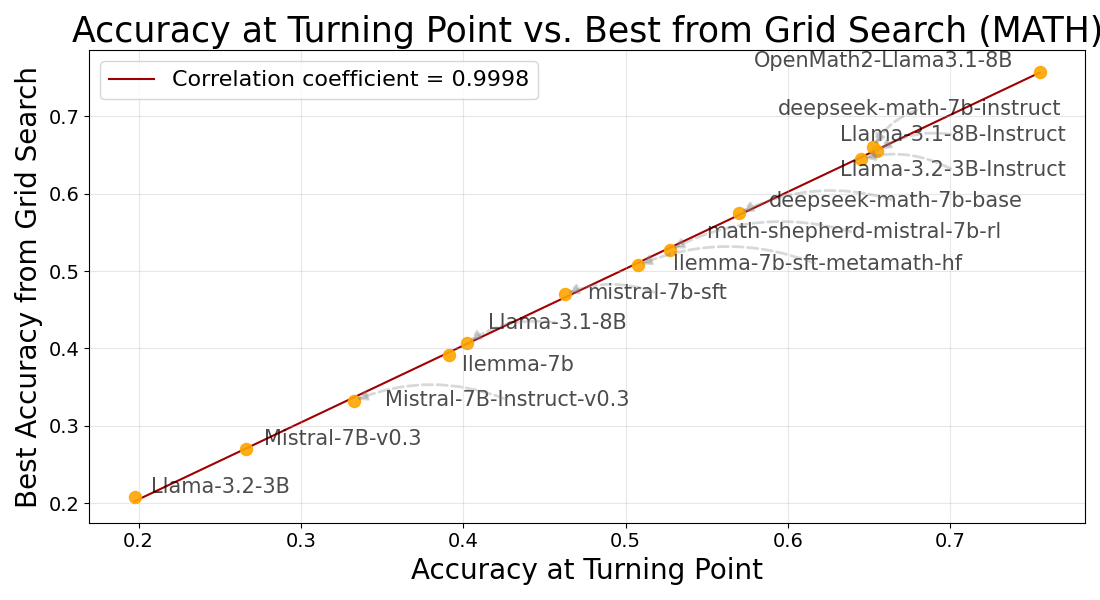
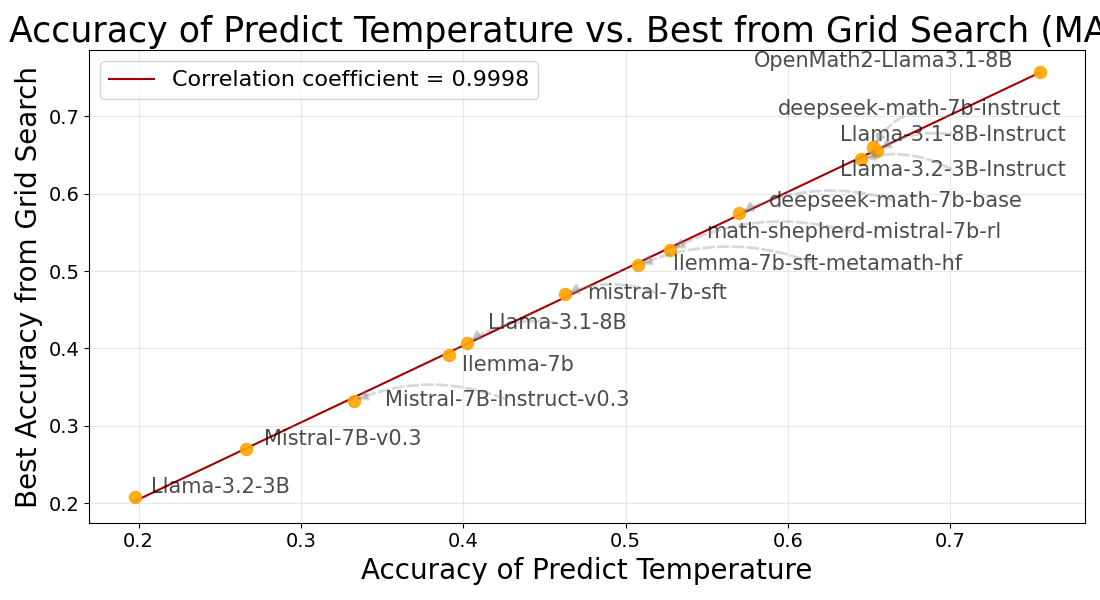
111

Changed region(s): [[0.0, 0.03, 1.0, 0.09], [0.3091, 0.93, 0.7418, 0.99]]

diff --git a/predict.py b/predict.py
@@ -293,6 +293,13 @@ if __name__ == "__main__":
             )
         entropy.append(average_e)
         temp.append(f"{t:.2f}")
+        # save intermediate results
+        output = {
+            "entropy": dict(zip(temp, entropy)),
+        }
+        with open(args.output_path, "w") as f:
+            json.dump(output, f)
+
     print("Entropy: ", entropy)
     print("Temperature: ", temp)
     entropy_dict = dict(zip(temp, entropy))

diff --git a/readme.md b/readme.md
@@ -8,6 +8,8 @@ This repository contains the code for the following paper:
 
 > The repo contains an entropy-based algorithm, <em>TURN</em>, for automated temperature optimization in multi-sample aggregation strategies, eliminating the need for labeled validation data.
 >
+> Multi-sample aggregation strategies (i.e., Best-of-N, Majority Voting) are widely used to achieve state-of-the-art performances, and we are the first to provide a systematic analysis for temperature selection in these strategies.
+>
 > Our predicted temperature has very high correlation to the best temperature from grid search regarding to accuracy (Fig. [1](#image1)).
 
 <a id="image1"></a>
@@ -15,9 +17,9 @@ This repository contains the code for the following paper:
 <img src="figs/correlation_accuracy.png" alt="The accuracies between predicted temperature and best from grid search have high correlation." width="700" height="400">
 </div>
 
-### Setup
+### Usage
 
-You can use our code for automatic temperature selection. Given a model and a task, TURN algorithm automatically predicts a suitable temperature.
+You can use our code for automatic temperature selection. Given a model and a task, TURN algorithm automatically predicts a suitable temperature for multi-sample aggregation strategy.
 
 We support models from Hugging Face or local checkpoints.
 
@@ -34,6 +36,8 @@ Ensure your test data is in JSONL format, structured as follows:
 ```json
 {"problem": "[problem 1]"}
 {"problem": "[problem 2]"}
+// Each line is a piece of input ...
+{"problem": "[problem K]"}
 ```
 
 #### Step 2: Run the Inference Script  
